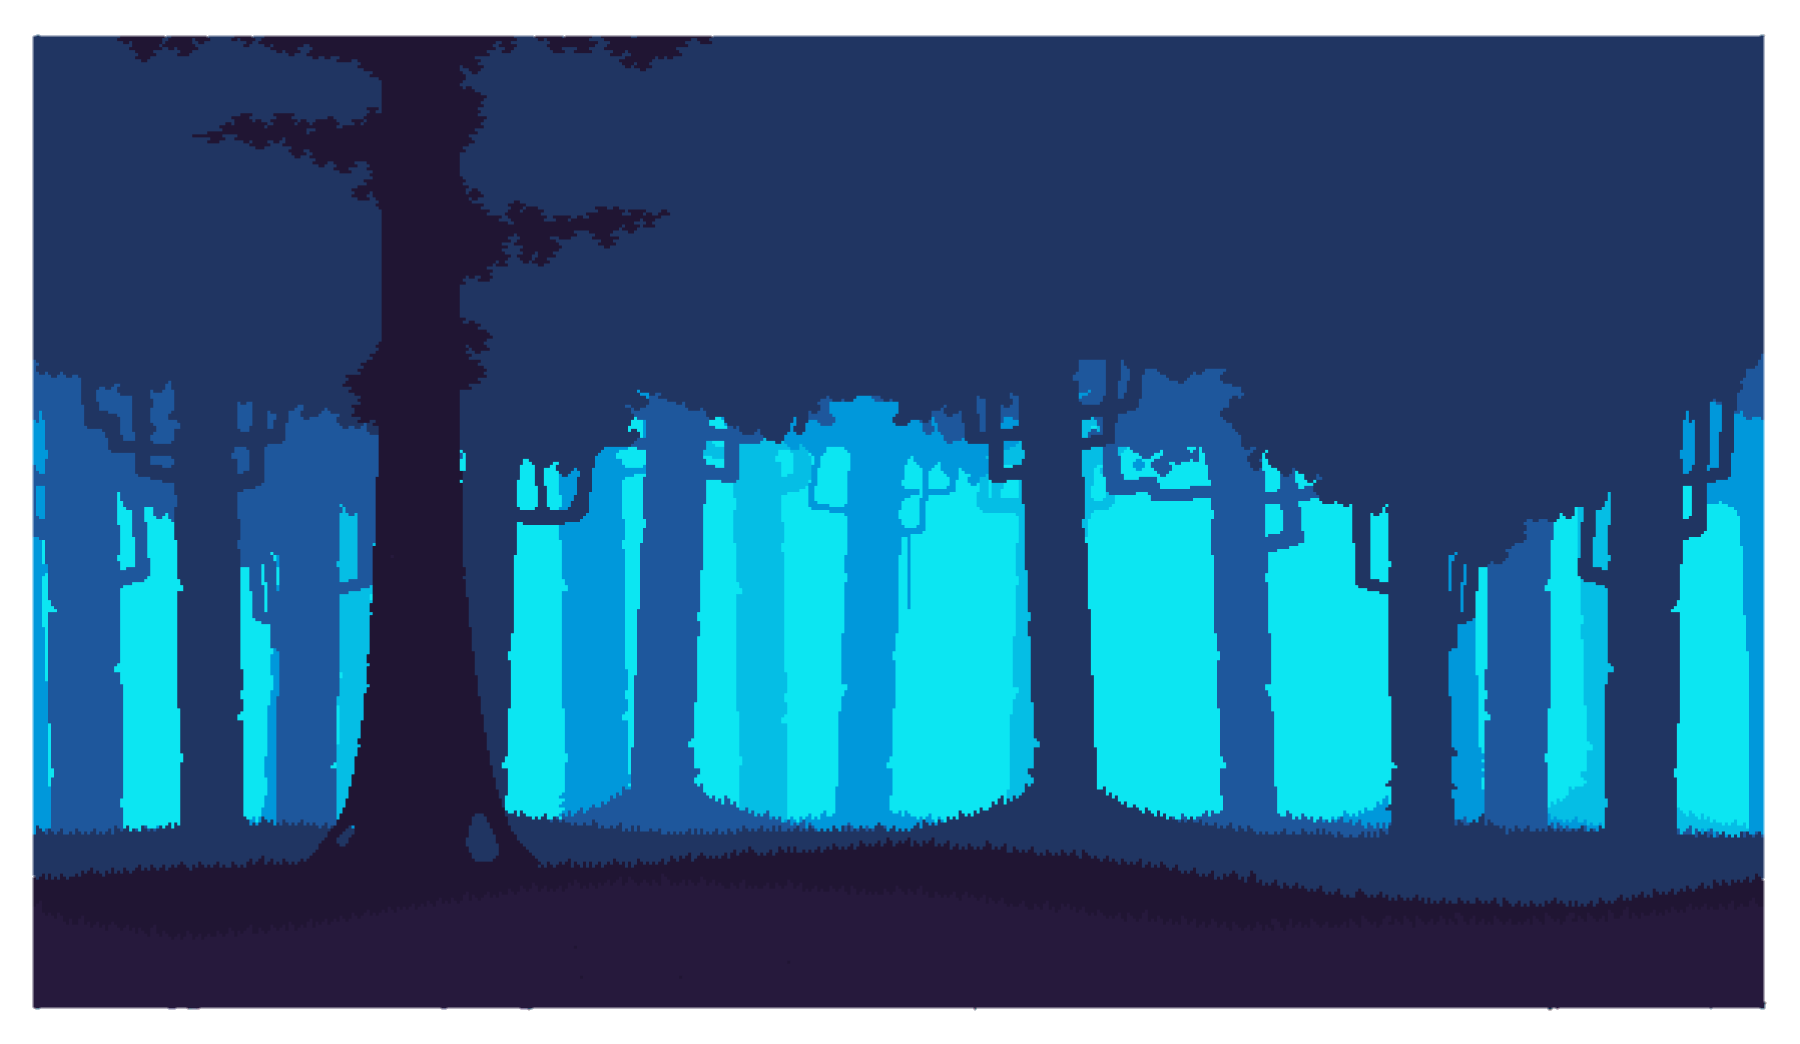
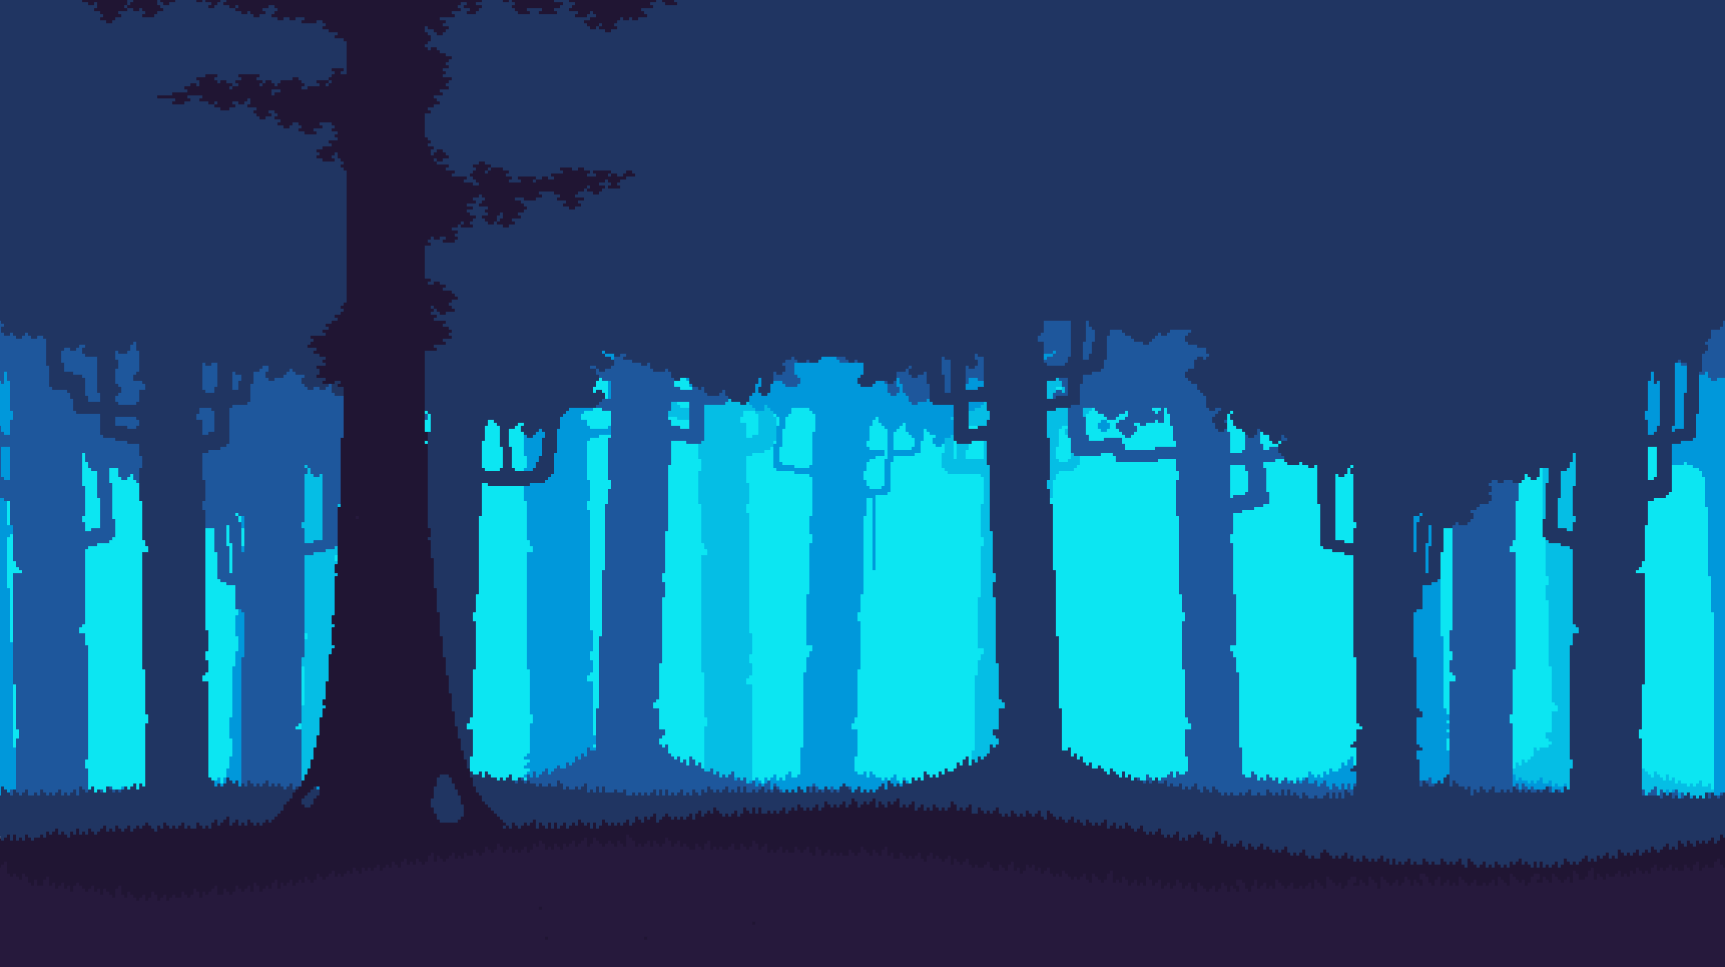
bg

Changed region(s): [[0.0, 0.0, 1.0, 1.0]]

diff --git a/filecopy/main.py b/filecopy/main.py
@@ -4,11 +4,15 @@ from player import Player
 from obstacle import Obstacle
 from cloud import Cloud
 
+# CODE CHANGED HERE
+from background import Background
+
 pygame.init()
 screen = pygame.display.set_mode((constants.SCREEN_WIDTH, constants.SCREEN_HEIGHT))
 pygame.display.set_caption("Jumping Circle Game")
 
 # Create objects
+background = Background()  # CODE CHANGED HERE
 player = Player(50, constants.GROUND_Y - constants.PLAYER_RADIUS)
 obstacle = Obstacle(
     constants.SCREEN_WIDTH, constants.GROUND_Y - constants.OBSTACLE_RADIUS
@@ -31,7 +35,7 @@ while running:
     obstacle.check_collision(player)
 
     cloud.update()
-
+    background.update()  # CODE CHANGED HERE
     # --- Drawing ---
     screen.fill(constants.BACKGROUND)
     pygame.draw.rect(
@@ -39,9 +43,12 @@ while running:
         constants.GROUND_COLOR,
         [0, constants.GROUND_Y, constants.SCREEN_WIDTH, 100],
     )
+    # CODE CHANGED HERE
+    background.draw(screen)
     player.draw(screen)
     obstacle.draw(screen)
     cloud.draw(screen)
+
     pygame.display.update()
 
     clock.tick(60)

diff --git a/filecopy/background.py b/filecopy/background.py
@@ -4,7 +4,11 @@ import constants
 
 class Background:
     def __init__(self):
-        self.image = pygame.image.load(constants.BACKGROUND_IMAGE)
+        original_image = pygame.image.load(constants.BACKGROUND_IMAGE)
+        # Scale the image to match the screen height
+        self.image = pygame.transform.scale(
+            original_image, (original_image.get_width(), constants.SCREEN_HEIGHT)
+        )
         self.x1 = 0
         self.x2 = self.image.get_width()
         self.y = 0

diff --git a/filecopy/constants.py b/filecopy/constants.py
@@ -33,5 +33,5 @@ CLOUD_ACTIVE = True
 
 # background settings
 BACKGROUND_IMAGE = "filecopy/assets/forest.png"
-BACKGROUND_SPEED = -5
+BACKGROUND_SPEED = 5
 BACKGROUND_ACTIVE = True
